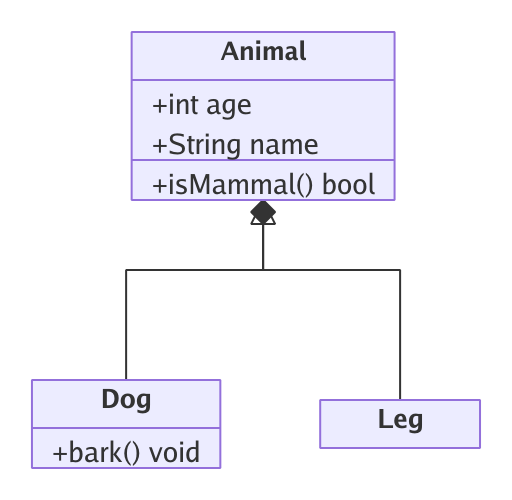
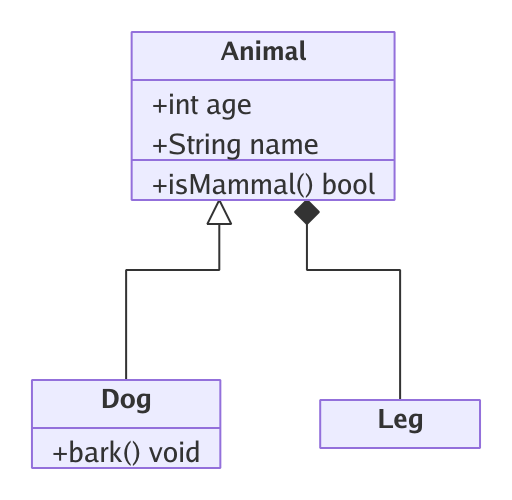
fix: visual polish — parallel edges, cylinder shape, quadrant labels (#9)
* fix: separate parallel edges and their labels in layout

Opposite or duplicate edges between the same node pair (e.g. A-->B and
B-->A) drew on top of each other, stacking their labels into an unreadable
blob. Offset each parallel edge perpendicular to its direction so both the
lines and labels (e.g. state "start"/"stop") sit clear of one another.

* fix: correct cylinder shape path

The cylinder body jumped straight from the bottom arc back to the top-left
rim via a second arc, with no line up the right side. With radii too small to
span that diagonal, SVG rescaled the arc and drew a lopsided overhang instead
of a cylinder. Add the missing right edge so the body closes as a proper
database cylinder.

* fix: keep quadrant axis and point labels inside the canvas

Y-axis labels were drawn horizontally with end-anchoring in a 26px gutter, so
anything longer than the gutter ran off the left edge. Render them vertically
(rotate -90) so long labels like "High Engagement" fit. Point labels now flip
to the left of their dot when they would otherwise overrun the right margin.

* fix: fan out edges that share a node face

Multiple edges meeting a node on the same face (e.g. a class with two
relationships entering its bottom) all clipped to the box center, stacking
their arrowheads and decorations on top of each other. spreadPorts distributes
those endpoints evenly along the face, ordered by their far end to avoid
[…]

Changed region(s): [[0.4062, 0.39, 0.625, 0.54]]

diff --git a/internal/layout/layout.go b/internal/layout/layout.go
@@ -7,6 +7,7 @@ package layout
 
 import (
 	"math"
+	"sort"
 
 	"github.com/Zac300/go-mermaid/internal/domain"
 	"github.com/Zac300/go-mermaid/internal/svgutil"
@@ -43,9 +44,140 @@ func Compute(g *domain.Graph, opts Options) (*Result, error) {
 	// right way on edges that were reversed to break cycles.
 	restoreReversed(g, reversed)
 	routeEdges(lg, g, totalPrimary)
+	separateParallel(g)
+	spreadPorts(g, g.Direction == domain.TopBottom || g.Direction == domain.BottomTop)
 
 	w, h := bounds(g)
 	return &Result{Graph: g, Width: w, Height: h}, nil
+}
+
+// separateParallel offsets edges that share the same node pair perpendicular
+// to their direction, so overlapping lines (e.g. A->B and B->A) and their
+// labels don't sit on top of each other.
+func separateParallel(g *domain.Graph) {
+	key := func(a, b string) string {
+		if a < b {
+			return a + "\x00" + b
+		}
+		return b + "\x00" + a
+	}
+	groups := map[string][]*domain.Edge{}
+	for _, e := range g.Edges {
+		if e.From != e.To {
+			groups[key(e.From, e.To)] = append(groups[key(e.From, e.To)], e)
+		}
+	}
+	for _, es := range groups {
+		if len(es) < 2 {
+			continue
+		}
+		for i, e := range es {
+			if len(e.Points) < 2 {
+				continue
+			}
+			p0, pn := e.Points[0], e.Points[len(e.Points)-1]
+			d := math.Hypot(pn.X-p0.X, pn.Y-p0.Y)
+			if d == 0 {
+				continue
+			}
+			px, py := -(pn.Y-p0.Y)/d, (pn.X-p0.X)/d
+			off := (float64(i) - float64(len(es)-1)/2) * 34
+			for j := range e.Points {
+				e.Points[j].X += px * off
+				e.Points[j].Y += py * off
+			}
+		}
+	}
+}
+
+// spreadPorts fans out the attach points of edges that meet a node on the same
+// face, so multiple edges (and their arrowheads) don't pile up at the box
+// center. Endpoints are distributed evenly along the face and ordered by their
+// far end to avoid introducing crossings; the adjacent elbow shifts with each
+// endpoint so the connecting segment stays orthogonal.
+func spreadPorts(g *domain.Graph, vertical bool) {
+	type touch struct {
+		e   *domain.Edge
+		idx int // index of the endpoint touching this node
+	}
+	// Edges that share a node pair are already fanned out by separateParallel;
+	// leaving them out here keeps that wider spacing intact.
+	pairKey := func(a, b string) string {
+		if a < b {
+			return a + "\x00" + b
+		}
+		return b + "\x00" + a
+	}
+	pairCount := map[string]int{}
+	for _, e := range g.Edges {
+		if e.From != e.To {
+			pairCount[pairKey(e.From, e.To)]++
+		}
+	}
+	byNode := map[string][]touch{}
+	for _, e := range g.Edges {
+		if e.From == e.To || len(e.Points) < 2 || pairCount[pairKey(e.From, e.To)] > 1 {
+			continue
+		}
+		byNode[e.From] = append(byNode[e.From], touch{e, 0})
+		byNode[e.To] = append(byNode[e.To], touch{e, len(e.Points) - 1})
+	}
+	for id, ts := range byNode {
+		n := g.NodeByID(id)
+		if n == nil {
+			continue
+		}
+		c := n.Center()
+		faces := map[bool][]touch{}
+		for _, t := range ts {
+			p := t.e.Points[t.idx]
+			pos := p.Y >= c.Y
+			if !vertical {
+				pos = p.X >= c.X
+			}
+			faces[pos] = append(faces[pos], t)
+		}
+		for _, grp := range faces {
+			if len(grp) < 2 {
+				continue
+			}
+			far := func(t touch) domain.Point {
+				if t.idx == 0 {
+					return t.e.Points[len(t.e.Points)-1]
+				}
+				return t.e.Points[0]
+			}
+			sort.SliceStable(grp, func(i, j int) bool {
+				if vertical {
+					return far(grp[i]).X < far(grp[j]).X
+				}
+				return far(grp[i]).Y < far(grp[j]).Y
+			})
+			for k, t := range grp {
+				frac := float64(k+1) / float64(len(grp)+1)
+				var port, cur float64
+				if vertical {
+					port = n.Pos.X + n.Size.W*frac
+					cur = t.e.Points[t.idx].X
+				} else {
+					port = n.Pos.Y + n.Size.H*frac
+					cur = t.e.Points[t.idx].Y
+				}
+				delta := port - cur
+				adj := t.idx + 1
+				if t.idx != 0 {
+					adj = t.idx - 1
+				}
+				if vertical {
+					t.e.Points[t.idx].X += delta
+					t.e.Points[adj].X += delta
+				} else {
+					t.e.Points[t.idx].Y += delta
+					t.e.Points[adj].Y += delta
+				}
+			}
+		}
+	}
 }
 
 // sizeNodes estimates a box size for each node from its label and font size.

diff --git a/raster/text.go b/raster/text.go
@@ -3,6 +3,7 @@ package raster
 import (
 	"image"
 	"image/color"
+	"math"
 	"regexp"
 	"strconv"
 	"strings"
@@ -10,10 +11,12 @@ import (
 	xhtml "html"
 
 	"github.com/Zac300/go-mermaid/internal/svgutil"
+	xdraw "golang.org/x/image/draw"
 	"golang.org/x/image/font"
 	"golang.org/x/image/font/gofont/gobold"
 	"golang.org/x/image/font/gofont/goregular"
 	"golang.org/x/image/font/opentype"
+	"golang.org/x/image/math/f64"
 	"golang.org/x/image/math/fixed"
 )
 
@@ -25,6 +28,7 @@ var (
 	tspanRe    = regexp.MustCompile(`(?s)<tspan\b([^>]*)>(.*?)</tspan>`)
 	attrRe     = regexp.MustCompile(`([\w-]+)="([^"]*)"`)
 	groupRe    = regexp.MustCompile(`<g transform="translate\(([0-9.-]+),([0-9.-]+)\)">`)
+	rotateRe   = regexp.MustCompile(`rotate\(\s*(-?[0-9.]+)(?:[ ,]+(-?[0-9.]+)[ ,]+(-?[0-9.]+))?\s*\)`)
 	regularFnt *opentype.Font
 	boldFnt    *opentype.Font
 )
@@ -67,39 +71,97 @@ func drawText(img *image.RGBA, svg string, scale, rootSize float64) {
 		}
 		x := numAttr(attrs["x"], "0")
 		y := numAttr(attrs["y"], "0")
+		if m := rotateRe.FindStringSubmatch(attrs["transform"]); m != nil {
+			ang, _ := strconv.ParseFloat(m[1], 64)
+			cx, cy := x, y
+			if m[2] != "" {
+				cx, _ = strconv.ParseFloat(m[2], 64)
+				cy, _ = strconv.ParseFloat(m[3], 64)
+			}
+			drawRotated(img, xhtml.UnescapeString(inner), x+ox, y+oy, (cx+ox)*scale, (cy+oy)*scale, ang, size, scale, fill, bold, anchor)
+			continue
+		}
 		drawString(img, xhtml.UnescapeString(inner), x+ox, y+oy, size, scale, fill, bold, anchor)
 	}
+}
+
+// buildFace returns a font face sized to px and the advance width of s, shrunk
+// to the width the layout reserved (svgutil.TextWidth) so glyphs stay in place.
+func buildFace(s string, size, scale float64, bold bool) (font.Face, float64) {
+	fnt := regularFnt
+	if bold {
+		fnt = boldFnt
+	}
+	if fnt == nil {
+		return nil, 0
+	}
+	px := size * scale
+	face, err := opentype.NewFace(fnt, &opentype.FaceOptions{Size: px, DPI: 72})
+	if err != nil {
+		return nil, 0
+	}
+	adv := float64(font.MeasureString(face, s)) / 64
+	if reserved := svgutil.TextWidth(s, size) * scale; reserved > 0 && adv > reserved {
+		_ = face.Close()
+		px *= reserved / adv
+		face, err = opentype.NewFace(fnt, &opentype.FaceOptions{Size: px, DPI: 72})
+		if err != nil {
+			return nil, 0
+		}
+		adv = float64(font.MeasureString(face, s)) / 64
+	}
+	return face, adv
+}
+
+// drawRotated renders s horizontally to a temp image, then rotates it by ang
+// degrees about (px,py) onto img — oksvg ignores text transforms, so we apply
+// the rotation ourselves (used for vertical axis labels).
+func drawRotated(img *image.RGBA, s string, x, y, px, py, ang, size, scale float64, fill color.Color, bold bool, anchor string) {
+	if strings.TrimSpace(s) == "" {
+		return
+	}
+	face, adv := buildFace(s, size, scale, bold)
+	if face == nil {
+		return
+	}
+	defer func() { _ = face.Close() }()
+
+	startX := x * scale
+	switch anchor {
+	case "middle":
+		startX -= adv / 2
+	case "end":
+		startX -= adv
+	}
+	ascent := size * scale * 0.8
+	descent := size * scale * 0.3
+	topY := y*scale - ascent
+	tw := int(math.Ceil(adv)) + 2
+	th := int(math.Ceil(ascent+descent)) + 2
+	if tw <= 0 || th <= 0 {
+		return
+	}
+	tmp := image.NewRGBA(image.Rect(0, 0, tw, th))
+	d := &font.Drawer{Dst: tmp, Src: image.NewUniform(fill), Face: face}
+	d.Dot = fixed.Point26_6{X: 0, Y: fixed.Int26_6(ascent * 64)}
+	d.DrawString(s)
+
+	rad := ang * math.Pi / 180
+	cos, sin := math.Cos(rad), math.Sin(rad)
+	s2d := f64.Aff3{
+		cos, -sin, cos*(startX-px) - sin*(topY-py) + px,
+		sin, cos, sin*(startX-px) + cos*(topY-py) + py,
+	}
+	xdraw.BiLinear.Transform(img, s2d, tmp, tmp.Bounds(), xdraw.Over, nil)
 }
 
 func drawString(img *image.RGBA, s string, x, y, size, scale float64, fill color.Color, bold bool, anchor string) {
 	if strings.TrimSpace(s) == "" {
 		return
 	}
-	fnt := regularFnt
-	if bold {
-		fnt = boldFnt
-	}
-	if fnt == nil {
+	face, adv := buildFace(s, size, scale, bold)
+	if face == nil {
 		return
-	}
-	px := size * scale
-	face, err := opentype.NewFace(fnt, &opentype.FaceOptions{Size: px, DPI: 72})
-	if err != nil {
-		return
-	}
-	adv := float64(font.MeasureString(face, s)) / 64
-
-	// The layout reserved space using svgutil.TextWidth (sans-serif metrics).
-	// The Go font is wider, so shrink to fit the reserved width and keep PNG
-	// labels inside their boxes.
-	if reserved := svgutil.TextWidth(s, size) * scale; reserved > 0 && adv > reserved {
-		_ = face.Close()
-		px *= reserved / adv
-		face, err = opentype.NewFace(fnt, &opentype.FaceOptions{Size: px, DPI: 72})
-		if err != nil {
-			return
-		}
-		adv = float64(font.MeasureString(face, s)) / 64
 	}
 	defer func() { _ = face.Close() }()
 

diff --git a/internal/quadrant/render.go b/internal/quadrant/render.go
@@ -107,9 +107,19 @@ func svg(d *Diagram, o RenderOptions) []byte {
 	by := svgutil.Num(top + plotSize + o.FontSize + 4)
 	axisText(d.XLeft, svgutil.Num(left), by, "start")
 	axisText(d.XRight, svgutil.Num(left+plotSize), by, "end")
-	ly := svgutil.Num(top + plotSize)
-	axisText(d.YBottom, svgutil.Num(left-6), ly, "end")
-	axisText(d.YTop, svgutil.Num(left-6), svgutil.Num(top+o.FontSize), "end")
+	// Y-axis labels run vertically along the left edge so long text fits in the
+	// narrow gutter instead of spilling off the canvas.
+	yAxisText := func(text string, cy float64) {
+		if text == "" {
+			return
+		}
+		lx := left - o.FontSize
+		fmt.Fprintf(&b, `  <text x="%s" y="%s" fill="%s" text-anchor="middle" transform="rotate(-90 %s %s)">%s</text>`,
+			svgutil.Num(lx), svgutil.Num(cy), pal.Text, svgutil.Num(lx), svgutil.Num(cy), svgutil.Esc(text))
+		b.WriteByte('\n')
+	}
+	yAxisText(d.YTop, top+plotSize/4)
+	yAxisText(d.YBottom, top+plotSize*3/4)
 
 	// Points: X right, Y up.
 	for _, p := range d.Points {
@@ -118,8 +128,14 @@ func svg(d *Diagram, o RenderOptions) []byte {
 		fmt.Fprintf(&b, `  <circle cx="%s" cy="%s" r="6" fill="%s" stroke="%s"/>`,
 			svgutil.Num(cx), svgutil.Num(cy), pal.NodeFill, pal.NodeStroke)
 		b.WriteByte('\n')
-		fmt.Fprintf(&b, `  <text x="%s" y="%s" fill="%s">%s</text>`,
-			svgutil.Num(cx+9), svgutil.Num(cy+o.FontSize*0.35), pal.Text, svgutil.Esc(p.Label))
+		// Place the label to the right of the dot, but flip it left when it would
+		// run past the right margin.
+		lx, anchor := cx+9, "start"
+		if cx+9+svgutil.TextWidth(p.Label, o.FontSize) > w-pad {
+			lx, anchor = cx-9, "end"
+		}
+		fmt.Fprintf(&b, `  <text x="%s" y="%s" fill="%s" text-anchor="%s">%s</text>`,
+			svgutil.Num(lx), svgutil.Num(cy+o.FontSize*0.35), pal.Text, anchor, svgutil.Esc(p.Label))
 		b.WriteByte('\n')
 	}
 

diff --git a/internal/render/svg.go b/internal/render/svg.go
@@ -259,9 +259,12 @@ func writeNode(b *strings.Builder, n *domain.Node, pal theme.Palette, opts Optio
 		fmt.Fprintf(b, `    <polygon points="%s" fill="%s" stroke="%s"/>`, pts, fill, stroke)
 	case domain.ShapeCylinder:
 		ry := h * 0.12
-		fmt.Fprintf(b, `    <path d="M%s,%s L%s,%s A%s,%s 0 0 0 %s,%s A%s,%s 0 0 0 %s,%s Z" fill="%s" stroke="%s"/>`,
+		// Body: down the left, curve under the bottom, up the right, dome over
+		// the top. The front lip is overdrawn so the top reads as a 3-D rim.
+		fmt.Fprintf(b, `    <path d="M%s,%s L%s,%s A%s,%s 0 0 0 %s,%s L%s,%s A%s,%s 0 0 0 %s,%s Z" fill="%s" stroke="%s"/>`,
 			num(x), num(y+ry), num(x), num(y+h-ry),
 			num(w/2), num(ry), num(x+w), num(y+h-ry),
+			num(x+w), num(y+ry),
 			num(w/2), num(ry), num(x), num(y+ry),
 			fill, stroke)
 		fmt.Fprintf(b, `<path d="M%s,%s A%s,%s 0 0 0 %s,%s" fill="none" stroke="%s"/>`,